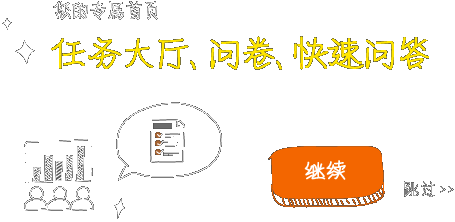
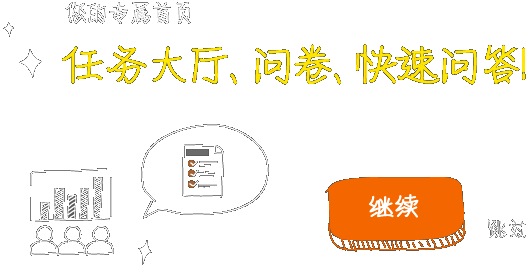
delete game text

diff --git a/web/css/home.css b/web/css/home.css
@@ -666,11 +666,11 @@ body {
   margin: 0 auto;
   z-index: 10000; }
   #newguideWrap .newguide1 {
-    width: 455px;
-    height: 222px;
+    width: 531px;
+    height: 266px;
     position: absolute;
     background: url(../img/home/guide1.png) no-repeat 0 0;
-    left: 292px;
+    left: 232px;
     top: 303px; }
   #newguideWrap .newguide2 {
     width: 520px;

diff --git a/web/sass/home.scss b/web/sass/home.scss
@@ -118,11 +118,11 @@ $slider-height: 305px;
 	margin: 0 auto;
 	z-index: 10000;
 	.newguide1{
-		width: 455px;
-		height: 222px;
+		width: 531px;
+		height: 266px;
 		position: absolute;
 		background: url(../img/home/guide1.png) no-repeat 0 0;
-		left: 292px;
+		left: 232px;
 		top: 303px;
 	}
 	.newguide2{
